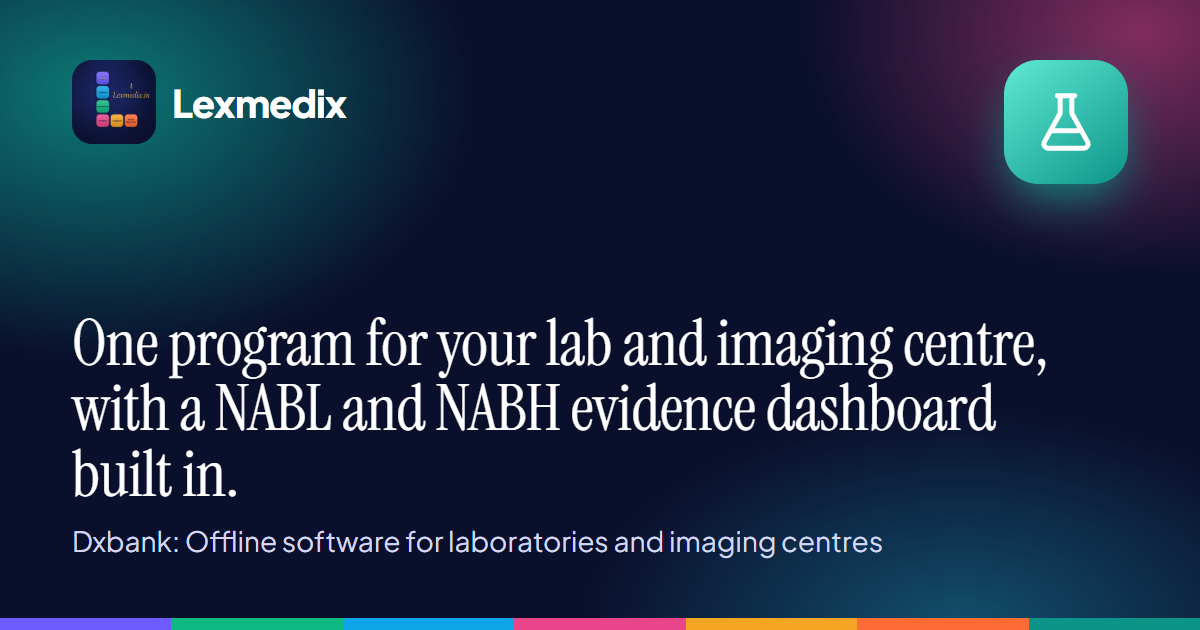
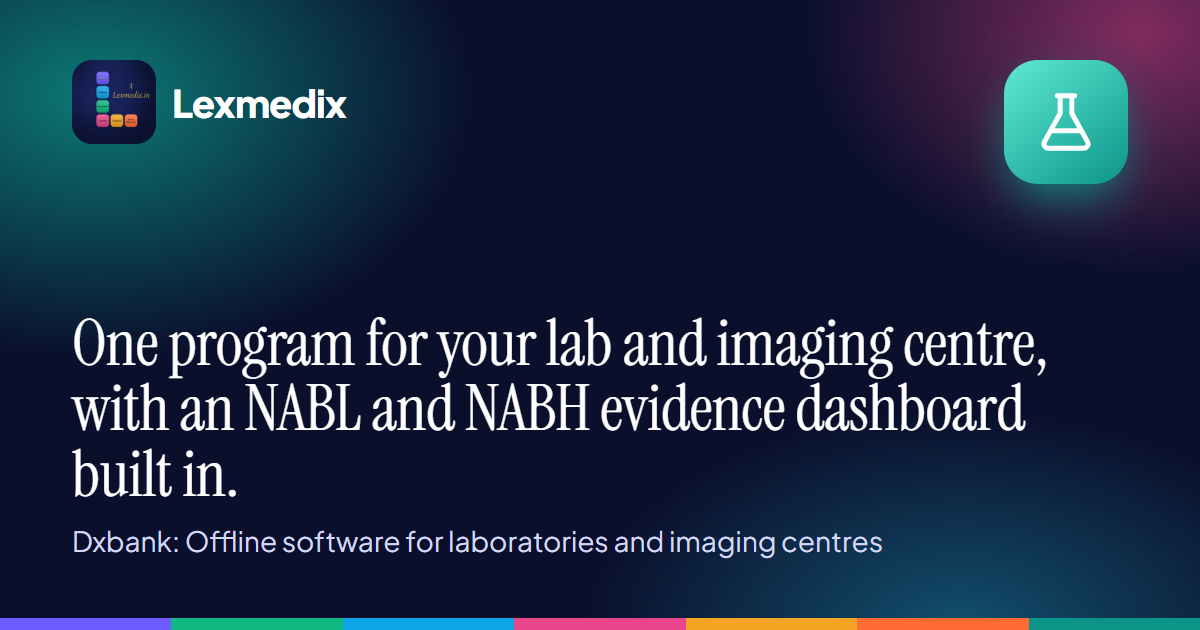
Dxbank wording: an NABL, not a NABL

Changed region(s): [[0.1542, 0.6032, 0.8633, 0.6937]]

diff --git a/dxbank/index.html b/dxbank/index.html
@@ -4,15 +4,15 @@
 <meta charset="utf-8">
 <meta name="viewport" content="width=device-width, initial-scale=1">
 <title>Dxbank: Offline software for laboratories and imaging centres | Lexmedix</title>
-<meta name="description" content="One program for your lab and imaging centre, with a NABL and NABH evidence dashboard built in. Dxbank runs on your own Windows computer and needs no internet. It handles registration, billing, results, radiology booking, safety and consent, and reports. Its evidence dashboard shows which of your rec">
+<meta name="description" content="One program for your lab and imaging centre, with an NABL and NABH evidence dashboard built in. Dxbank runs on your own Windows computer and needs no internet. It handles registration, billing, results, radiology booking, safety and consent, and reports. Its evidence dashboard shows which of your re">
 <link rel="canonical" href="https://lexmedix.in/dxbank/">
 <meta name="theme-color" content="#0a0f2c">
 <meta property="og:type" content="website">
 <meta property="og:site_name" content="Lexmedix">
 <meta property="og:title" content="Dxbank: Offline software for laboratories and imaging centres | Lexmedix">
-<meta property="og:description" content="One program for your lab and imaging centre, with a NABL and NABH evidence dashboard built in. Dxbank runs on your own Windows computer and needs no internet. It handles registration, billing, results, radiology booking, safety and consent, and reports. Its evidence dashboard shows which of your rec">
+<meta property="og:description" content="One program for your lab and imaging centre, with an NABL and NABH evidence dashboard built in. Dxbank runs on your own Windows computer and needs no internet. It handles registration, billing, results, radiology booking, safety and consent, and reports. Its evidence dashboard shows which of your re">
 <meta property="og:url" content="https://lexmedix.in/dxbank/">
-<meta property="og:image" content="https://lexmedix.in/assets/img/og-dxbank.png?v=703f7cc4">
+<meta property="og:image" content="https://lexmedix.in/assets/img/og-dxbank.png?v=11fef24d">
 <meta name="twitter:card" content="summary_large_image">
 <link rel="icon" href="../assets/img/favicon.svg" type="image/svg+xml">
 <link rel="icon" href="../assets/img/favicon-32.png" sizes="32x32" type="image/png">
@@ -21,7 +21,7 @@
 <link rel="stylesheet" href="../assets/css/site.css?v=786f69cd">
 <script type="application/ld+json">{"@context": "https://schema.org", "@graph": [{"@type": "Organization", "@id": "https://lexmedix.in/#organization", "name": "Lexmedix", "alternateName": "Bankata.AI", "url": "https://lexmedix.in/", "logo": "https://lexmedix.in/assets/img/icon-512.png", "sameAs": ["https://www.linkedin.com/company/145291597/", "https://www.facebook.com/profile.php?id=61595012924670", "https://www.linkedin.com/in/dr-sudhanshu-bankata-3354ba4/", "https://www.youtube.com/@drbankata", "https://www.instagram.com/drbankata/", "https://www.facebook.com/sudhanshu.bankata/", "https://x.com/bankata"], "founder": {"@id": "https://lexmedix.in/#founder"}}, {"@type": "WebSite", "@id": "https://lexmedix.in/#website", "name": "Lexmedix", "alternateName": "Bankata.AI", "url": "https://lexmedix.in/", "inLanguage": "en-IN", "publisher": {"@id": "https://lexmedix.in/#organization"}}, {"@type": "Person", "@id": "https://lexmedix.in/#founder", "name": "Dr Sudhanshu Bankata", "jobTitle": "Managing Director and CEO", "worksFor": {"@type": "Organization", "name": "RadBank Imaging Solutions"}, "url": "https://lexmedix.in/about/", "sameAs": ["https://www.linkedin.com/in/dr-sudhanshu-bankata-3354ba4/", "https://www.youtube.com/@drbankata", "https://www.instagram.com/drbankata/", "https://www.facebook.com/sudhanshu.bankata/", "https://x.com/bankata"]}]}</script>
 <script type="application/ld+json">{"@context": "https://schema.org", "@type": "BreadcrumbList", "itemListElement": [{"@type": "ListItem", "position": 1, "name": "Lexmedix", "item": "https://lexmedix.in/"}, {"@type": "ListItem", "position": 2, "name": "Dxbank", "item": "https://lexmedix.in/dxbank/"}]}</script>
-<script type="application/ld+json">{"@context": "https://schema.org", "@type": "SoftwareApplication", "name": "Dxbank", "applicationCategory": "BusinessApplication", "operatingSystem": "Windows", "description": "One program for your lab and imaging centre, with a NABL and NABH evidence dashboard built in. Dxbank runs on your own Windows computer and needs no internet. It handles registration, billing, results, radiology booking, safety and consent, and reports. Its evidence dashboard shows which of your rec", "url": "https://lexmedix.in/dxbank/", "publisher": {"@id": "https://lexmedix.in/#organization"}}</script>
+<script type="application/ld+json">{"@context": "https://schema.org", "@type": "SoftwareApplication", "name": "Dxbank", "applicationCategory": "BusinessApplication", "operatingSystem": "Windows", "description": "One program for your lab and imaging centre, with an NABL and NABH evidence dashboard built in. Dxbank runs on your own Windows computer and needs no internet. It handles registration, billing, results, radiology booking, safety and consent, and reports. Its evidence dashboard shows which of your re", "url": "https://lexmedix.in/dxbank/", "publisher": {"@id": "https://lexmedix.in/#organization"}}</script>
 <script type="application/ld+json">{"@context": "https://schema.org", "@type": "FAQPage", "mainEntity": [{"@type": "Question", "name": "Does it need the internet?", "acceptedAnswer": {"@type": "Answer", "text": "No. Dxbank runs on your own Windows computer and keeps your data there. Internet is needed only to send a report by WhatsApp or mail."}}, {"@type": "Question", "name": "Does it use AI?", "acceptedAnswer": {"@type": "Answer", "text": "No. Dxbank has no AI, and the program sends nothing to us."}}, {"@type": "Question", "name": "Can I try it first?", "acceptedAnswer": {"@type": "Answer", "text": "Yes. There is a 7-day demo. Reports printed in the demo are marked as not for clinical use. Ask us to book it."}}, {"@type": "Question", "name": "Does it make me NABL or NABH compliant?", "acceptedAnswer": {"@type": "Answer", "text": "No software can. Dxbank shows your records against the clause codes, lists the gaps and makes an evidence pack. It gives no score and never says you comply. The assessor judges."}}, {"@type": "Question", "name": "What does it cost?", "acceptedAnswer": {"@type": "Answer", "text": "Dxbank is licensed by the year for each lab, with options for imaging, histopathology, quality control, the analyser interface and others. Price on request."}}, {"@type": "Question", "name": "Which computer does it need?", "acceptedAnswer": {"@type": "Answer", "text": "A Windows 10 or 11 computer (64-bit) with Microsoft Edge or Google Chrome."}}, {"@type": "Question", "name": "What happens when the licence ends?", "acceptedAnswer": {"@type": "Answer", "text": "You get a reminder first. After the grace period Dxbank becomes read-only, never locked, so you can still open and print old reports."}}]}</script>
 <script type="application/ld+json">{"@context": "https://schema.org", "@type": "WebPage", "@id": "https://lexmedix.in/dxbank/", "url": "https://lexmedix.in/dxbank/", "name": "Dxbank: Offline software for laboratories and imaging centres | Lexmedix", "inLanguage": "en-IN", "isPartOf": {"@id": "https://lexmedix.in/#website"}, "dateModified": "2026-10-17"}</script>
 </head>
@@ -47,7 +47,7 @@
 <section class="p-hero aurora" data-c="dx"><div class="wrap p-hero-grid">
 <div><p class="crumbs"><a href=".././">Lexmedix</a> / Dxbank</p>
 <div class="band-kicker"><span class="pi pi-lg" data-c="dx"><svg viewBox="0 0 24 24" fill="none" stroke="currentColor" stroke-width="1.8" stroke-linecap="round" stroke-linejoin="round" aria-hidden="true"><path d="M9 3h6M10 3v6L4.5 19a1.5 1.5 0 0 0 1.3 2h12.4a1.5 1.5 0 0 0 1.3-2L14 9V3"/><path d="M7.5 15h9"/></svg></span><span>Offline software for laboratories and imaging centres</span></div>
-<h1>One program for your lab and imaging centre, with a NABL and NABH evidence dashboard built in.</h1>
+<h1>One program for your lab and imaging centre, with an NABL and NABH evidence dashboard built in.</h1>
 <p class="lede">Dxbank by Lexmedix is offline software for laboratories and imaging centres: it runs registration, billing, results, radiology booking, safety and consent, and reports, and its evidence dashboard and evidence pack show which of your records answer NABL and NABH clauses and where the gaps are. Dxbank runs on your own Windows computer and needs no internet. It handles registration, billing, results, radiology booking, safety and consent, and reports. Its evidence dashboard shows which of your records answer each NABL and NABH clause and where the gaps are, and one button makes an evidence pack for the assessor.</p>
 <div class="btns"><a class="btn btn-c" href="../contact/?product=dxbank&amp;type=Book%20a%20demo">Book the <span class="num">7</span>-day demo</a><a class="btn btn-line" href="#features">See the features</a></div>
 <p class="price-line" style="margin-top:16px">Price on request. <span class="num">7</span>-day demo.</p>
@@ -64,7 +64,7 @@
 
 <section class="section light" data-c="dx" aria-labelledby="h-for"><div class="wrap">
 <div class="sec-head"><h2 id="h-for">Who it is for</h2></div>
-<ul class="for-list"><li>Pathology laboratories and collection centres</li><li>Diagnostic and imaging centres: X-ray, ultrasound, CT, MRI, mammography</li><li>Quality managers preparing for a NABL or NABH assessment</li></ul></div></section>
+<ul class="for-list"><li>Pathology laboratories and collection centres</li><li>Diagnostic and imaging centres: X-ray, ultrasound, CT, MRI, mammography</li><li>Quality managers preparing for an NABL or NABH assessment</li></ul></div></section>
 
 <section class="section white" data-c="dx" id="features" aria-labelledby="h-feat"><div class="wrap">
 <div class="sec-head"><h2 id="h-feat">What Dxbank does</h2></div>

diff --git a/index.html b/index.html
@@ -4,13 +4,13 @@
 <meta charset="utf-8">
 <meta name="viewport" content="width=device-width, initial-scale=1">
 <title>Lexmedix: AI work tools for doctors, labs, hospitals, lawyers and facility teams</title>
-<meta name="description" content="Radbank, Fullcurebank, Pathbank, Treatbank, Legalbank and Facility Management SaaS: six AI apps that turn what you say or upload into finished, checked work. Plus Dxbank, offline lab and radiology software with a NABL and NABH evidence dashboard and evidence pack. From ₹300 per user per month for the AI apps.">
+<meta name="description" content="Radbank, Fullcurebank, Pathbank, Treatbank, Legalbank and Facility Management SaaS: six AI apps that turn what you say or upload into finished, checked work. Plus Dxbank, offline lab and radiology software with an NABL and NABH evidence dashboard and evidence pack. From ₹300 per user per month for the AI apps.">
 <link rel="canonical" href="https://lexmedix.in/">
 <meta name="theme-color" content="#0a0f2c">
 <meta property="og:type" content="website">
 <meta property="og:site_name" content="Lexmedix">
 <meta property="og:title" content="Lexmedix: AI work tools for doctors, labs, hospitals, lawyers and facility teams">
-<meta property="og:description" content="Radbank, Fullcurebank, Pathbank, Treatbank, Legalbank and Facility Management SaaS: six AI apps that turn what you say or upload into finished, checked work. Plus Dxbank, offline lab and radiology software with a NABL and NABH evidence dashboard and evidence pack. From ₹300 per user per month for the AI apps.">
+<meta property="og:description" content="Radbank, Fullcurebank, Pathbank, Treatbank, Legalbank and Facility Management SaaS: six AI apps that turn what you say or upload into finished, checked work. Plus Dxbank, offline lab and radiology software with an NABL and NABH evidence dashboard and evidence pack. From ₹300 per user per month for the AI apps.">
 <meta property="og:url" content="https://lexmedix.in/">
 <meta property="og:image" content="https://lexmedix.in/assets/img/og-image.png?v=95a9dbd0">
 <meta name="twitter:card" content="summary_large_image">
@@ -78,7 +78,7 @@
 <span class="go">Explore Legalbank <svg viewBox="0 0 24 24" fill="none" stroke="currentColor" stroke-width="2.2" stroke-linecap="round" stroke-linejoin="round" aria-hidden="true"><path d="M5 12h14M13 6l6 6-6 6"/></svg></span></a></li><li data-c="fac"><a class="pcard" href="facility-management/"><span class="pi pi-lg" data-c="fac"><svg viewBox="0 0 24 24" fill="none" stroke="currentColor" stroke-width="1.8" stroke-linecap="round" stroke-linejoin="round" aria-hidden="true"><path d="M4 21V5.5A1.5 1.5 0 0 1 5.5 4h7A1.5 1.5 0 0 1 14 5.5V21"/><path d="M14 10h4.5a1.5 1.5 0 0 1 1.5 1.5V21M2.5 21h19"/><path d="M7.5 8h3M7.5 11.5h3M7.5 15h3"/></svg></span>
 <h3>Facility Management SaaS</h3><p class="k">Housekeeping and facility management platform</p><p>Attendance, payroll, billing and cleaning quality for housekeeping companies, even when workers have no smartphone.</p>
 <span class="go">Explore Facility Management <svg viewBox="0 0 24 24" fill="none" stroke="currentColor" stroke-width="2.2" stroke-linecap="round" stroke-linejoin="round" aria-hidden="true"><path d="M5 12h14M13 6l6 6-6 6"/></svg></span></a></li><li data-c="dx"><a class="pcard" href="dxbank/"><span class="pi pi-lg" data-c="dx"><svg viewBox="0 0 24 24" fill="none" stroke="currentColor" stroke-width="1.8" stroke-linecap="round" stroke-linejoin="round" aria-hidden="true"><path d="M9 3h6M10 3v6L4.5 19a1.5 1.5 0 0 0 1.3 2h12.4a1.5 1.5 0 0 0 1.3-2L14 9V3"/><path d="M7.5 15h9"/></svg></span>
-<h3>Dxbank</h3><p class="k">Offline software for laboratories and imaging centres</p><p>One program for your lab and imaging centre, with a NABL and NABH evidence dashboard built in.</p>
+<h3>Dxbank</h3><p class="k">Offline software for laboratories and imaging centres</p><p>One program for your lab and imaging centre, with an NABL and NABH evidence dashboard built in.</p>
 <span class="go">Explore Dxbank <svg viewBox="0 0 24 24" fill="none" stroke="currentColor" stroke-width="2.2" stroke-linecap="round" stroke-linejoin="round" aria-hidden="true"><path d="M5 12h14M13 6l6 6-6 6"/></svg></span></a></li></ul>
 <p class="trust-line"><span class="wi"><svg viewBox="0 0 24 24" fill="none" stroke="currentColor" stroke-width="1.8" stroke-linecap="round" stroke-linejoin="round" aria-hidden="true"><path d="M12 3l7.5 3v5.5c0 4.5-3.2 8.2-7.5 9.5-4.3-1.3-7.5-5-7.5-9.5V6z"/><path d="M8.5 12l2.5 2.5 4.5-5"/></svg></span><span>Patient records are kept apart for every organisation, encrypted, and shared only through links that expire. <a class="textlink" href="security/">How we protect your data</a></span></p>
 </div></section>
@@ -145,7 +145,7 @@
 <div class="band-media"><div class="soon" data-c="fac"><div><span class="pi" data-c="fac"><svg viewBox="0 0 24 24" fill="none" stroke="currentColor" stroke-width="1.8" stroke-linecap="round" stroke-linejoin="round" aria-hidden="true"><path d="M4 21V5.5A1.5 1.5 0 0 1 5.5 4h7A1.5 1.5 0 0 1 14 5.5V21"/><path d="M14 10h4.5a1.5 1.5 0 0 1 1.5 1.5V21M2.5 21h19"/><path d="M7.5 8h3M7.5 11.5h3M7.5 15h3"/></svg></span><b>Video walkthrough coming soon</b><p>Want to see Facility Management now? We can show you live.</p><a class="btn btn-c" href="contact/?product=facility-management&amp;type=Book%20a%20demo">Book a live demo</a></div></div></div>
 </div></section><section class="band" id="dxbank" data-c="dx" aria-labelledby="h-dxbank"><div class="wrap band-grid">
 <div><div class="band-kicker"><span class="pi" data-c="dx"><svg viewBox="0 0 24 24" fill="none" stroke="currentColor" stroke-width="1.8" stroke-linecap="round" stroke-linejoin="round" aria-hidden="true"><path d="M9 3h6M10 3v6L4.5 19a1.5 1.5 0 0 0 1.3 2h12.4a1.5 1.5 0 0 0 1.3-2L14 9V3"/><path d="M7.5 15h9"/></svg></span>Dxbank</div>
-<h2 id="h-dxbank">One program for your lab and imaging centre, with a NABL and NABH evidence dashboard built in.</h2>
+<h2 id="h-dxbank">One program for your lab and imaging centre, with an NABL and NABH evidence dashboard built in.</h2>
 <p class="lede">Dxbank runs on your own Windows computer and needs no internet. It handles registration, billing, results, radiology booking, safety and consent, and reports. Its evidence dashboard shows which of your records answer each NABL and NABH clause and where the gaps are, and one button makes an evidence pack for the assessor.</p>
 <ul class="ticks"><li><b>Registration and billing.</b> A UHID for every patient, a warning for a possible duplicate, discount limits by role, cash, UPI and card, refunds, and receipts on A<span class="num">5</span> or <span class="num">80</span> mm paper.</li><li><b>Lab results with flags.</b> Age- and sex-wise reference ranges, high, low and critical flags, calculated tests such as LDL and eGFR, and a second look at a value that seems a typing error.</li><li><b>Approval and amendments.</b> A technician enters and a doctor approves. A change after approval makes a new report version with a reason, and the old one is kept.</li><li><b>Reports your way.</b> Print or PDF on your letterhead, and share by WhatsApp, Gmail or Outlook on the web. A long report repeats the patient details on every page.</li></ul>
 <p class="price-line">Price on request. <span class="num">7</span>-day demo.</p>

diff --git a/services/index.html b/services/index.html
@@ -158,7 +158,7 @@
 <span class="go">Explore Legalbank <svg viewBox="0 0 24 24" fill="none" stroke="currentColor" stroke-width="2.2" stroke-linecap="round" stroke-linejoin="round" aria-hidden="true"><path d="M5 12h14M13 6l6 6-6 6"/></svg></span></a></li><li data-c="fac"><a class="pcard" href="../facility-management/"><span class="pi pi-lg" data-c="fac"><svg viewBox="0 0 24 24" fill="none" stroke="currentColor" stroke-width="1.8" stroke-linecap="round" stroke-linejoin="round" aria-hidden="true"><path d="M4 21V5.5A1.5 1.5 0 0 1 5.5 4h7A1.5 1.5 0 0 1 14 5.5V21"/><path d="M14 10h4.5a1.5 1.5 0 0 1 1.5 1.5V21M2.5 21h19"/><path d="M7.5 8h3M7.5 11.5h3M7.5 15h3"/></svg></span>
 <h3>Facility Management SaaS</h3><p class="k">Housekeeping and facility management platform</p><p>Attendance, payroll, billing and cleaning quality for housekeeping companies, even when workers have no smartphone.</p>
 <span class="go">Explore Facility Management <svg viewBox="0 0 24 24" fill="none" stroke="currentColor" stroke-width="2.2" stroke-linecap="round" stroke-linejoin="round" aria-hidden="true"><path d="M5 12h14M13 6l6 6-6 6"/></svg></span></a></li><li data-c="dx"><a class="pcard" href="../dxbank/"><span class="pi pi-lg" data-c="dx"><svg viewBox="0 0 24 24" fill="none" stroke="currentColor" stroke-width="1.8" stroke-linecap="round" stroke-linejoin="round" aria-hidden="true"><path d="M9 3h6M10 3v6L4.5 19a1.5 1.5 0 0 0 1.3 2h12.4a1.5 1.5 0 0 0 1.3-2L14 9V3"/><path d="M7.5 15h9"/></svg></span>
-<h3>Dxbank</h3><p class="k">Offline software for laboratories and imaging centres</p><p>One program for your lab and imaging centre, with a NABL and NABH evidence dashboard built in.</p>
+<h3>Dxbank</h3><p class="k">Offline software for laboratories and imaging centres</p><p>One program for your lab and imaging centre, with an NABL and NABH evidence dashboard built in.</p>
 <span class="go">Explore Dxbank <svg viewBox="0 0 24 24" fill="none" stroke="currentColor" stroke-width="2.2" stroke-linecap="round" stroke-linejoin="round" aria-hidden="true"><path d="M5 12h14M13 6l6 6-6 6"/></svg></span></a></li></ul>
 </div></section>
 
